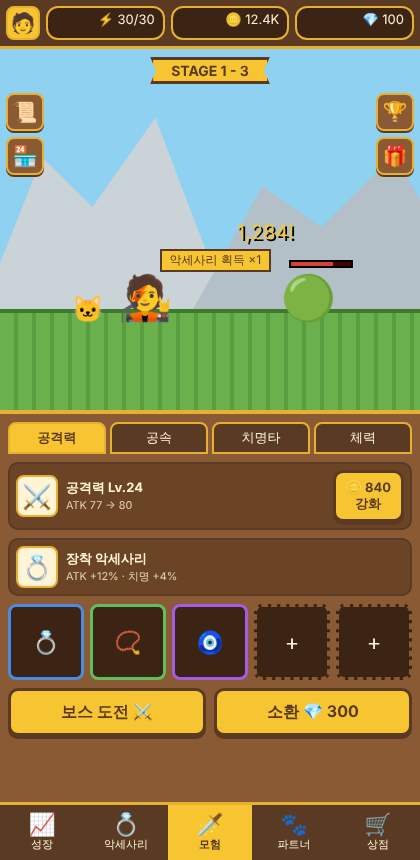
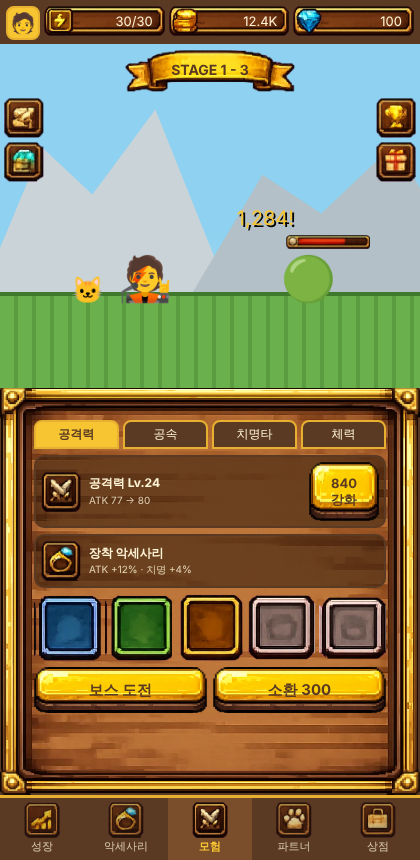
Add sliced UI assets and apply them to the UI mockup
Claude-Session: https://claude.ai/code/session_017cmznWRdPTAnfEpriTTQ4Q

diff --git a/docs/ui-mockup.html b/docs/ui-mockup.html
@@ -3,66 +3,74 @@
 <meta name="viewport" content="width=device-width,initial-scale=1">
 <title>리:이세계 UI 목업</title>
 <style>
-:root{--dk:#5a3a22;--md:#8a5a34;--gold:#e8b030;--yel:#f7c531;--grass:#6ab04c;--sky:#8ed1f0;--cream:#fff4d6;--red:#d6403a}
+:root{--dk:#5a3a22;--md:#8a5a34;--gold:#e8b030;--yel:#f7c531;--cream:#fff4d6;--u:../assets/ui/slices}
 *{box-sizing:border-box;margin:0}
 body{background:#2b1d12;display:flex;justify-content:center;font-family:"DotGothic16","Galmuri11",system-ui,sans-serif;color:var(--cream)}
 .app{width:100%;max-width:420px;height:100vh;max-height:860px;display:flex;flex-direction:column;background:var(--dk);position:relative;overflow:hidden}
-.hud{display:flex;gap:6px;padding:6px;background:var(--dk);border-bottom:3px solid var(--gold)}
-.pill{flex:1;background:#3b2414;border:2px solid var(--gold);border-radius:12px;padding:3px 8px;font-size:13px;text-align:right;white-space:nowrap}
+.hud{display:flex;gap:4px;padding:6px 6px 4px;background:var(--dk)}
+.pill{flex:1;height:30px;background:url(../assets/ui/slices/bar_currency.png) 0 0/100% 100% no-repeat;display:flex;align-items:center;justify-content:flex-end;padding:0 12px 0 34px;font-size:13px}
+.pill{position:relative}.pill img{position:absolute;left:3px;top:50%;transform:translateY(-50%);width:26px;height:26px}
 .avatar{width:34px;height:34px;border:2px solid var(--gold);border-radius:8px;background:var(--yel);display:grid;place-items:center;font-size:20px}
-.field{flex:0 0 42%;position:relative;overflow:hidden;background:linear-gradient(var(--sky) 0 55%,#bfe8f7)}
+.field{flex:0 0 40%;position:relative;overflow:hidden;background:linear-gradient(#8ed1f0 0 55%,#bfe8f7)}
 .mount{position:absolute;bottom:26%;left:-5%;width:60%;height:55%;background:#c9d3d8;clip-path:polygon(0 100%,25% 20%,45% 45%,70% 0,100% 100%)}
 .mount.b{left:45%;width:70%;height:45%;background:#b3c0c7}
-.ground{position:absolute;bottom:0;left:0;right:0;height:28%;background:var(--grass);border-top:4px solid #3f7a2c;
- background-image:repeating-linear-gradient(90deg,transparent 0 14px,#5a9c3f 14px 18px)}
-.banner{position:absolute;top:8px;left:50%;transform:translateX(-50%);background:var(--yel);color:var(--dk);border:3px solid var(--dk);padding:2px 18px;font-weight:bold;font-size:14px;clip-path:polygon(0 0,100% 0,95% 50%,100% 100%,0 100%,5% 50%)}
-.side{position:absolute;top:44px;display:flex;flex-direction:column;gap:6px}
-.side.l{left:6px}.side.r{right:6px}
-.ico{width:38px;height:38px;border:2px solid var(--gold);background:var(--md);border-radius:8px;display:grid;place-items:center;font-size:20px;box-shadow:0 2px 0 var(--dk)}
+.ground{position:absolute;bottom:0;left:0;right:0;height:28%;background:#6ab04c;border-top:4px solid #3f7a2c;background-image:repeating-linear-gradient(90deg,transparent 0 14px,#5a9c3f 14px 18px)}
+.banner{position:absolute;top:6px;left:50%;transform:translateX(-50%);width:170px;height:42px;background:url(../assets/ui/slices/ribbon_banner.png) center/100% 100% no-repeat;color:var(--dk);font-weight:bold;font-size:14px;display:grid;place-items:center;padding-bottom:4px}
+.side{position:absolute;top:54px;display:flex;flex-direction:column;gap:4px}
+.side.l{left:4px}.side.r{right:4px}
+.side img{width:40px;height:40px}
 .hero{position:absolute;left:28%;bottom:24%;font-size:44px;animation:bob .6s steps(2) infinite}
 .pet{position:absolute;left:17%;bottom:24%;font-size:26px;animation:bob .6s .3s steps(2) infinite}
 .mon{position:absolute;right:20%;bottom:24%;font-size:44px}
-.hp{position:absolute;right:16%;bottom:calc(24% + 56px);width:64px;height:8px;background:#400;border:2px solid #000}
-.hp i{display:block;height:100%;width:70%;background:var(--red)}
+.hp{position:absolute;right:12%;bottom:calc(24% + 56px);width:84px;height:14px;background:url(../assets/ui/slices/bar_hp_monster.png) 0 0/100% 100% no-repeat}
 .dmg{position:absolute;right:30%;bottom:46%;color:var(--yel);font-size:20px;text-shadow:2px 2px 0 #000;animation:up 1.2s steps(6) infinite}
-.drop{position:absolute;left:38%;bottom:calc(24% + 52px);background:var(--yel);color:var(--dk);border:2px solid var(--dk);padding:1px 8px;font-size:12px}
 @keyframes bob{50%{transform:translateY(-4px)}}
 @keyframes up{to{transform:translateY(-24px);opacity:0}}
-.panel{flex:1;margin:0;padding:8px;background:var(--md);border-top:4px solid var(--gold);overflow:auto;display:flex;flex-direction:column;gap:8px}
+/* 9-slice wood panel */
+.panel{flex:1;display:flex;flex-direction:column;gap:6px;padding:8px;overflow:auto;
+ border:26px solid transparent;border-image:url(../assets/ui/slices/panel_wood.png) 130 fill/26px stretch;margin:-2px 0 0}
 .tabs{display:flex;gap:4px}
-.tab{flex:1;text-align:center;padding:5px 0;background:var(--dk);border:2px solid var(--gold);border-radius:8px 8px 0 0;font-size:13px}
+.tab{flex:1;text-align:center;padding:4px 0;background:var(--dk);border:2px solid var(--gold);border-radius:8px 8px 0 0;font-size:12px}
 .tab.on{background:var(--yel);color:var(--dk);font-weight:bold}
-.row{display:flex;align-items:center;gap:8px;background:#6b4426;border:2px solid var(--dk);border-radius:10px;padding:6px}
-.row .ic{width:42px;height:42px;background:var(--cream);color:var(--dk);border-radius:8px;display:grid;place-items:center;font-size:24px;border:2px solid var(--gold)}
-.row .tx{flex:1;font-size:13px;line-height:1.35}.row .tx small{opacity:.8}
-.btn{background:var(--yel);color:var(--dk);border:3px solid var(--dk);border-radius:10px;padding:6px 10px;font-weight:bold;font-size:13px;text-align:center;box-shadow:0 3px 0 var(--dk);font-family:inherit}
-.slots{display:flex;gap:6px}
-.slot{flex:1;aspect-ratio:1;border:3px solid;border-radius:8px;display:grid;place-items:center;font-size:22px;background:#3b2414}
-.g1{border-color:#999}.g2{border-color:#5fbf5f}.g3{border-color:#4a8be8}.g4{border-color:#a45be8}.g5{border-color:#f08a24}.g0{border-style:dashed;border-color:var(--md)}
-.start{display:flex;gap:8px}
-.start .btn{flex:1;font-size:16px;padding:10px}
+.row{display:flex;align-items:center;gap:8px;background:rgba(40,22,10,.55);border:2px solid var(--dk);border-radius:10px;padding:5px}
+.row img.ic{width:40px;height:40px}
+.row .tx{flex:1;font-size:12px;line-height:1.35}.row .tx small{opacity:.8}
+/* 9-slice yellow button */
+.btn{border:14px solid transparent;border-image:url(../assets/ui/slices/btn_yellow_hi.png) 60 70 90 60 fill/14px 14px 18px 14px stretch;
+ color:var(--dk);font-weight:bold;font-size:13px;text-align:center;line-height:1.2;padding:0 6px;min-width:70px;cursor:pointer}
+.btn:active{border-image-source:url(../assets/ui/slices/btn_yellow_pressed_hi.png);transform:translateY(2px)}
+.btn.wide{flex:1;font-size:15px}
+.slots{display:flex;gap:4px}
+.slots img{flex:1;min-width:0;aspect-ratio:1;object-fit:contain}
+.start{display:flex;gap:6px}
 .nav{display:flex;background:var(--dk);border-top:3px solid var(--gold)}
-.nav div{flex:1;text-align:center;padding:6px 0 8px;font-size:11px}
-.nav div span{display:block;font-size:22px}
-.nav .on{background:var(--yel);color:var(--dk);font-weight:bold}
+.nav div{flex:1;text-align:center;padding:4px 0 6px;font-size:11px;opacity:.75}
+.nav div img{display:block;width:36px;height:36px;margin:0 auto 1px}
+.nav .on{opacity:1;background:#7a4d2b;color:var(--yel);font-weight:bold}
 </style></head><body>
 <div class="app">
- <div class="hud"><div class="avatar">🧑</div><div class="pill">⚡ 30/30</div><div class="pill">🪙 12.4K</div><div class="pill">💎 100</div></div>
+ <div class="hud"><div class="avatar">🧑</div>
+  <div class="pill"><img src="../assets/ui/slices/icon_energy.png">30/30</div><div class="pill"><img src="../assets/ui/slices/icon_gold.png">12.4K</div><div class="pill"><img src="../assets/ui/slices/icon_gem.png">100</div></div>
  <div class="field">
   <div class="mount"></div><div class="mount b"></div><div class="ground"></div>
   <div class="banner">STAGE 1 - 3</div>
-  <div class="side l"><div class="ico">📜</div><div class="ico">🏪</div></div>
-  <div class="side r"><div class="ico">🏆</div><div class="ico">🎁</div></div>
+  <div class="side l"><img src="../assets/ui/slices/menu_quest.png"><img src="../assets/ui/slices/menu_store.png"></div>
+  <div class="side r"><img src="../assets/ui/slices/menu_rank.png"><img src="../assets/ui/slices/menu_gift.png"></div>
   <div class="pet">🐱</div><div class="hero">🧑🎤</div>
-  <div class="drop">악세사리 획득 ×1</div>
-  <div class="hp"><i></i></div><div class="mon">🟢</div><div class="dmg">1,284!</div>
+  <div class="hp"></div><div class="mon">🟢</div><div class="dmg">1,284!</div>
  </div>
  <div class="panel">
   <div class="tabs"><div class="tab on">공격력</div><div class="tab">공속</div><div class="tab">치명타</div><div class="tab">체력</div></div>
-  <div class="row"><div class="ic">⚔</div><div class="tx"><b>공격력 Lv.24</b><br><small>ATK 77 → 80</small></div><div class="btn">🪙 840<br>강화</div></div>
-  <div class="row"><div class="ic">💍</div><div class="tx"><b>장착 악세사리</b><br><small>ATK +12% · 치명 +4%</small></div></div>
-  <div class="slots"><div class="slot g3">💍</div><div class="slot g2">📿</div><div class="slot g4">🧿</div><div class="slot g0">+</div><div class="slot g0">+</div></div>
-  <div class="start"><div class="btn">보스 도전 ⚔</div><div class="btn">소환 💎 300</div></div>
+  <div class="row"><img class="ic" src="../assets/ui/slices/nav_adventure.png"><div class="tx"><b>공격력 Lv.24</b><br><small>ATK 77 → 80</small></div><div class="btn">840<br>강화</div></div>
+  <div class="row"><img class="ic" src="../assets/ui/slices/nav_accessory.png"><div class="tx"><b>장착 악세사리</b><br><small>ATK +12% · 치명 +4%</small></div></div>
+  <div class="slots"><img src="../assets/ui/slices/slot_g3_rare.png"><img src="../assets/ui/slices/slot_g2_uncommon.png"><img src="../assets/ui/slices/slot_g5_legend.png"><img src="../assets/ui/slices/slot_equip_a.png"><img src="../assets/ui/slices/slot_equip_b.png"></div>
+  <div class="start"><div class="btn wide">보스 도전</div><div class="btn wide">소환 300</div></div>
  </div>
- <div class="nav"><div><span>📈</span>성장</div><div><span>💍</span>악세사리</div><div class="on"><span>🗡</span>모험</div><div><span>🐾</span>파트너</div><div><span>🛒</span>상점</div></div>
+ <div class="nav">
+  <div><img src="../assets/ui/slices/nav_growth.png">성장</div>
+  <div><img src="../assets/ui/slices/nav_accessory.png">악세사리</div>
+  <div class="on"><img src="../assets/ui/slices/nav_adventure.png">모험</div>
+  <div><img src="../assets/ui/slices/nav_partner.png">파트너</div>
+  <div><img src="../assets/ui/slices/nav_shop.png">상점</div>
+ </div>
 </div></body></html>

diff --git a/assets/ui/README.md b/assets/ui/README.md
@@ -1,0 +1,6 @@
+# UI 에셋
+- `raw/` : 원본 (panel_wood, buttons, sheet)
+- `slices/` : 시트에서 잘라낸 개별 PNG (투명 배경), `manifest.json`에 크기 기록
+- 9-slice: `panel_wood.png` 모서리 130px, `btn_yellow_hi.png` 슬라이스 60/70/90/60 (CSS border-image 참고: docs/ui-mockup.html)
+- 등급 슬롯: common/uncommon/rare/legend/mythic 있음. **epic(보라) 슬롯 없음** → 추가 생성 필요
+- `slot_equip_a~c`, `nav_*_alt`, `nav_misc`는 용도 미확정(시트 원본 그대로)
